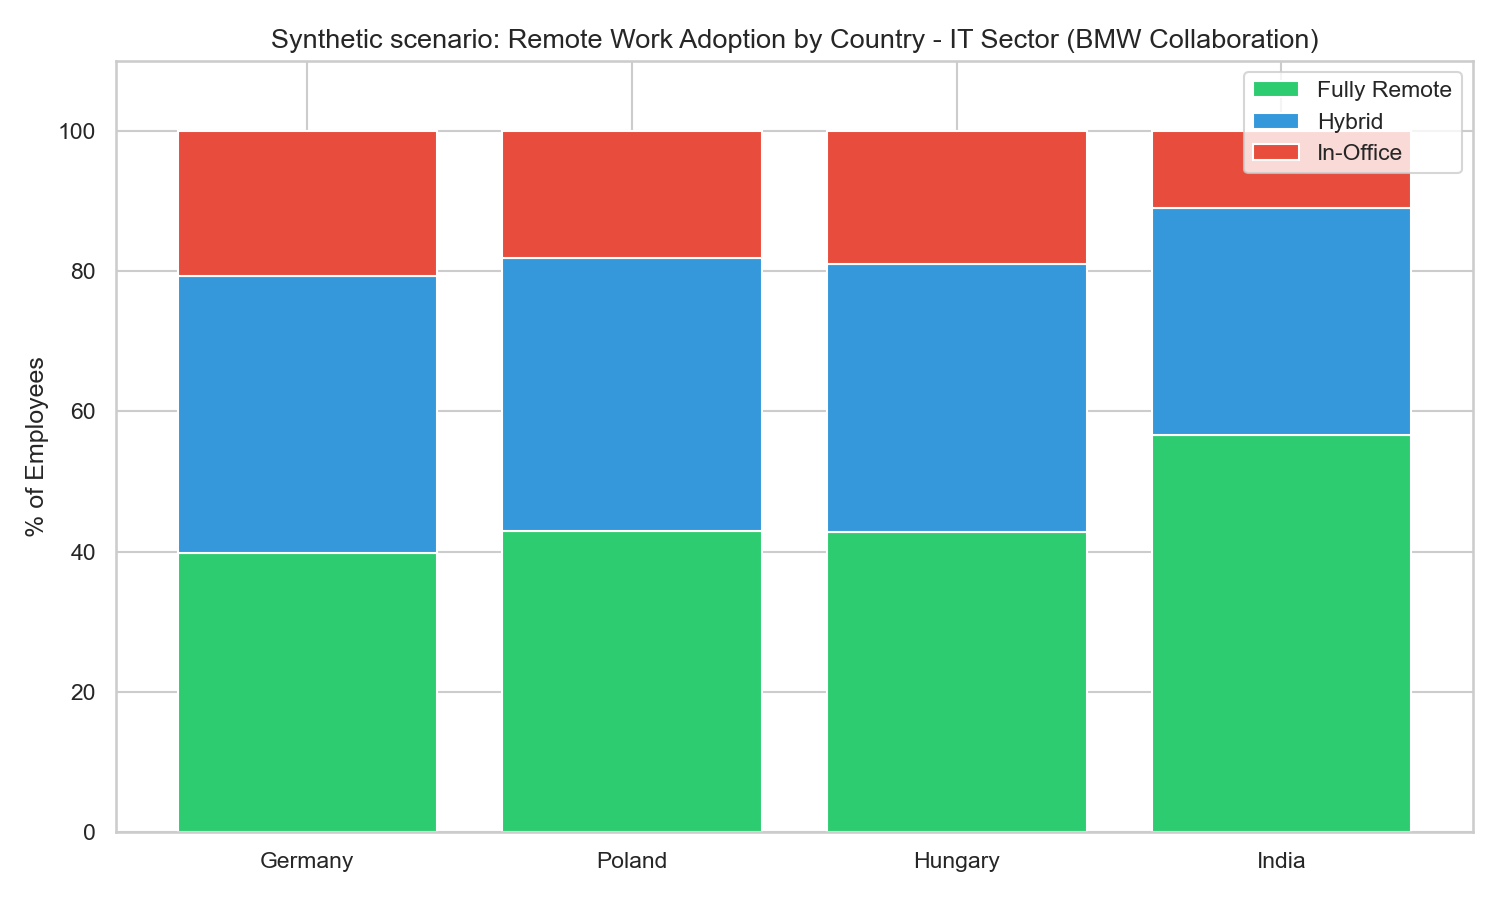
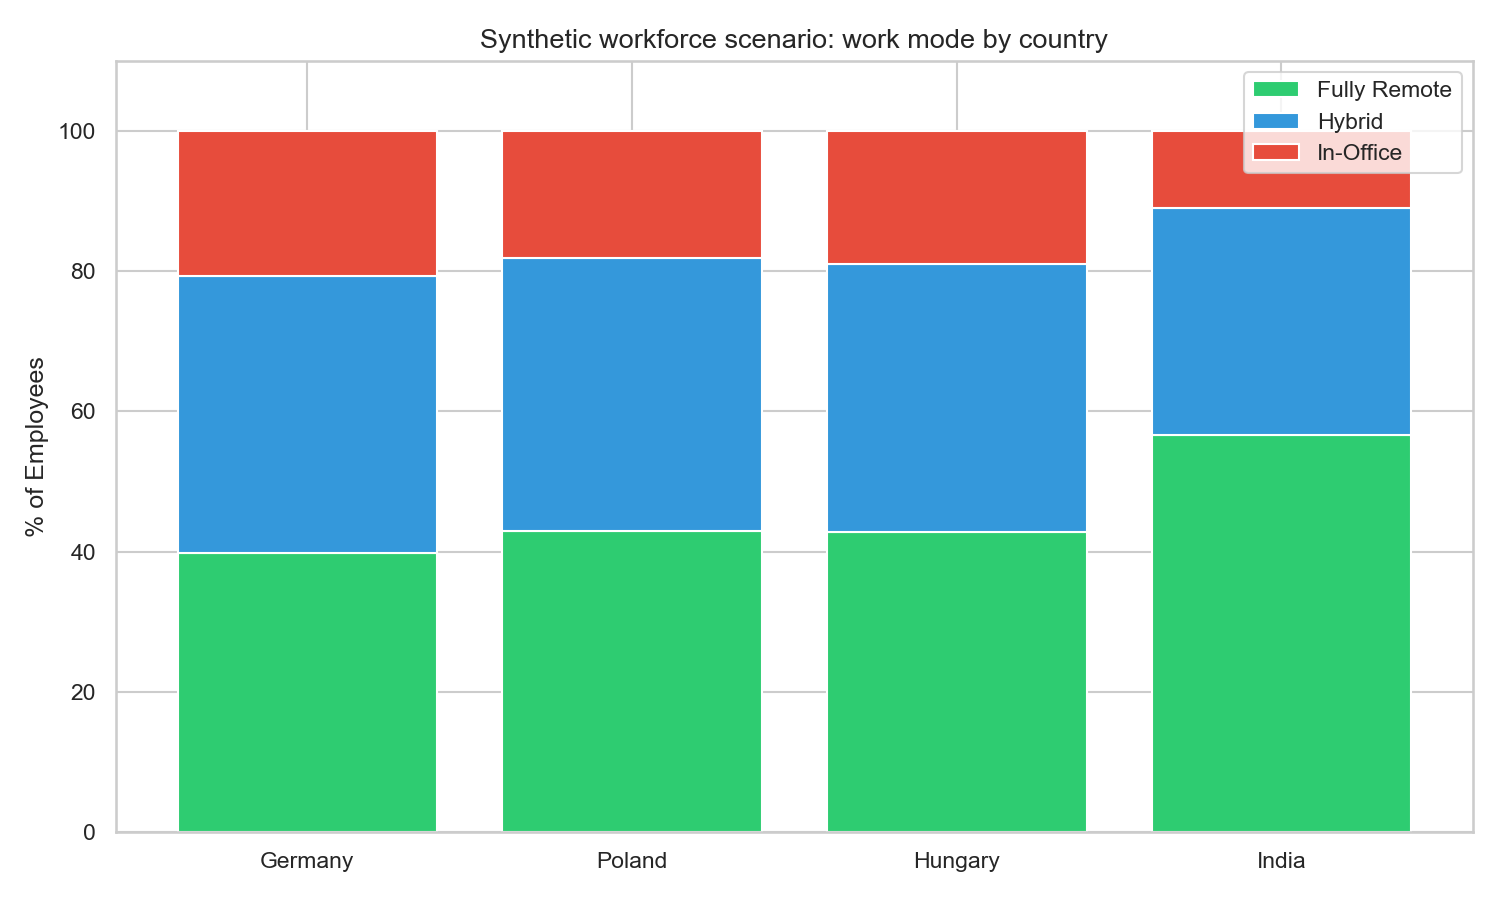
Document sample scope, add MIT licence and strengthen reproducibility checks

Changed region(s): [[0.184, 0.0311, 0.8893, 0.0622]]

diff --git a/tests/test_simulation.py b/tests/test_simulation.py
@@ -1,0 +1,43 @@
+import re
+import sqlite3
+import subprocess
+import sys
+import unittest
+from pathlib import Path
+
+import pandas as pd
+
+ROOT = Path(__file__).resolve().parents[1]
+
+
+class SimulationTests(unittest.TestCase):
+    @classmethod
+    def setUpClass(cls):
+        subprocess.run([sys.executable, str(ROOT/'src/generate_data.py')], check=True, capture_output=True)
+        cls.frame = pd.read_csv(ROOT/'data/synthetic_workforce_data.csv')
+
+    def test_country_coverage_and_unique_ids(self):
+        self.assertEqual(self.frame.groupby('country').size().to_dict(),
+                         {'Germany':800,'Hungary':400,'India':300,'Poland':500})
+        self.assertTrue(self.frame.employee_id.is_unique)
+        self.assertTrue(self.frame[['productivity_score','satisfaction_score']].apply(lambda s:s.between(1,10).all()).all())
+
+    def test_gross_cost_assumptions_by_work_mode(self):
+        office_cost=self.frame.country.map({'Germany':12000,'Poland':7000,'Hungary':6500,'India':3500})
+        factor=self.frame.work_mode.map({'Fully Remote':1,'Hybrid':.5,'In-Office':0})
+        pd.testing.assert_series_equal(self.frame.annual_office_cost_saving_eur, office_cost*factor, check_names=False)
+
+    def test_sql_queries_execute_and_reconcile_headcounts(self):
+        with sqlite3.connect(':memory:') as db:
+            self.frame.to_sql('workforce',db,index=False)
+            sql=re.sub(r'--[^\n]*','',(ROOT/'src/sql_queries.sql').read_text(encoding='utf-8'))
+            queries=[q.strip() for q in sql.split(';') if q.strip()]
+            self.assertEqual(len(queries),7)
+            tables=[pd.read_sql_query(q,db) for q in queries]
+        self.assertEqual(int(tables[0].employee_count.sum()),2000)
+        self.assertEqual(int(tables[2].employees.sum()),2000)
+        for country,group in tables[0].groupby('country'):
+            self.assertAlmostEqual(group.pct_of_country.sum(),100,delta=.02)
+
+
+if __name__=='__main__': unittest.main()

diff --git a/src/analyse.py b/src/analyse.py
@@ -1,7 +1,7 @@
 """
 analyse.py
-Main analysis pipeline for 4-country remote work study.
-Generates charts ready for Power BI dashboard integration.
+Analysis of a generated four-country workforce scenario.
+Outputs describe configured assumptions rather than employer observations.
 """
 
 from pathlib import Path
@@ -51,7 +51,7 @@ def chart_adoption_by_country(df: pd.DataFrame):
         ax.bar(countries, vals, bottom=bottom, label=mode, color=colors[mode], edgecolor="white")
         bottom += np.array(vals)
 
-    ax.set_title("Synthetic scenario: Remote Work Adoption by Country - IT Sector (BMW Collaboration)", fontsize=13)
+    ax.set_title("Synthetic workforce scenario: work mode by country", fontsize=13)
     ax.set_ylabel("% of Employees")
     ax.set_ylim(0, 110)
     ax.legend(loc="upper right")
@@ -84,7 +84,7 @@ def chart_productivity_by_workmode(df: pd.DataFrame):
         ax.set_ylabel("Mean Score (1–10)")
         ax.set_ylim(0, 10)
 
-    fig.suptitle("Productivity & Satisfaction Across Work Modes", fontsize=13)
+    fig.suptitle("Synthetic scenario: productivity and satisfaction", fontsize=13)
     plt.tight_layout()
     plt.savefig(f"{OUTPUT_DIR}/productivity_by_workmode.png", dpi=150)
     plt.close()
@@ -107,8 +107,8 @@ def chart_cost_savings(df: pd.DataFrame):
         ax.text(bar.get_x() + bar.get_width() / 2, bar.get_height() + 0.02,
                 f"€{val:.2f}M", ha="center", va="bottom", fontweight="bold")
 
-    ax.set_title("Synthetic scenario: Estimated Annual Office Cost Savings by Country", fontsize=13)
-    ax.set_ylabel("Total Savings (€ Millions)")
+    ax.set_title("Synthetic scenario: gross avoided office cost by country", fontsize=13)
+    ax.set_ylabel("Gross avoided cost (€ millions)")
     ax.yaxis.set_major_formatter(mticker.FormatStrFormatter("€%.1fM"))
     plt.tight_layout()
     plt.savefig(f"{OUTPUT_DIR}/cost_savings_simulation.png", dpi=150)

diff --git a/src/generate_data.py b/src/generate_data.py
@@ -38,7 +38,7 @@ for country, cfg in COUNTRIES.items():
         p=[p_remote, p_hybrid, p_office],
     )
 
-    # Productivity: Hybrid > Remote > In-Office (slight edge)
+    # Assumed means: Hybrid 7.6, In-Office 7.2, Fully Remote 7.0
     base_prod = {"Fully Remote": 7.0, "Hybrid": 7.6, "In-Office": 7.2}
     productivity = np.array([
         np.clip(np.random.normal(base_prod[wm], 1.2), 1, 10)

diff --git a/README.md b/README.md
@@ -1,5 +1,7 @@
 # Remote-work workforce simulation
 
+[![Checks](https://github.com/yousufpatel41-collab/remote-work-analysis/actions/workflows/simulation.yml/badge.svg)](https://github.com/yousufpatel41-collab/remote-work-analysis/actions)
+
 A personal portfolio simulation with 2,000 synthetic employee records across Germany, Poland, Hungary and India. It demonstrates grouped analysis, charts and SQL queries. The public data is generated by this repository, not collected from BMW or an employer.
 
 ## Run
@@ -10,9 +12,10 @@ Use Python 3.11 or 3.12 in a virtual environment, from the repository root:
 pip install -r requirements.txt
 python src/generate_data.py
 python src/analyse.py
+python -m unittest discover -s tests -v
 ```
 
-The generator uses seed 42 and writes `data/synthetic_workforce_data.csv`. The analysis writes `outputs/adoption_by_country.png`, `outputs/productivity_by_workmode.png`, `outputs/cost_savings_simulation.png` and `outputs/kpi_summary.csv`. Import that CSV as a table called `workforce` to try `src/sql_queries.sql`; adapt functions to your SQL dialect. There is no saved notebook or Power BI dashboard.
+The generator uses seed 42 and writes `data/synthetic_workforce_data.csv`. The analysis writes `outputs/adoption_by_country.png`, `outputs/productivity_by_workmode.png`, `outputs/cost_savings_simulation.png` and `outputs/kpi_summary.csv`. Import `data/synthetic_workforce_data.csv` as a table called `workforce` to try `src/sql_queries.sql`; adapt functions to your SQL dialect. There is no saved notebook or Power BI dashboard.
 
 ## Assumptions
 
@@ -23,3 +26,11 @@ Annual office costs are assumed to be €12,000, €7,000, €6,500 and €3,500
 ![Synthetic adoption](outputs/adoption_by_country.png)
 ![Synthetic productivity](outputs/productivity_by_workmode.png)
 ![Gross cost scenario](outputs/cost_savings_simulation.png)
+
+## Validation
+
+Tests check unique employee IDs, country coverage, bounded scores, equal headcounts across data and summaries, the gross cost assumptions and execution of all seven SQL queries against SQLite. Every chart is labelled as a synthetic scenario.
+
+## Licence and data rights
+
+Project code and documentation: [MIT](LICENSE). External datasets retain their own terms; see [DATA_SOURCES.md](DATA_SOURCES.md).

diff --git a/DATA_SOURCES.md b/DATA_SOURCES.md
@@ -1,0 +1,3 @@
+# Synthetic data
+
+All 2,000 records are generated by `src/generate_data.py` using seed 42. No employer data or survey responses are included. Productivity, satisfaction, work-mode proportions, salaries and avoided office costs are configured assumptions. The generated synthetic output may be reused under this repository’s MIT licence.
